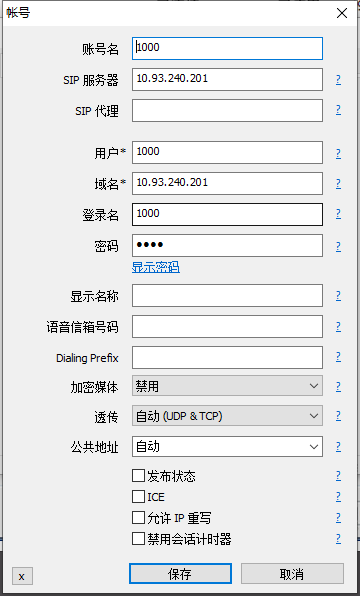
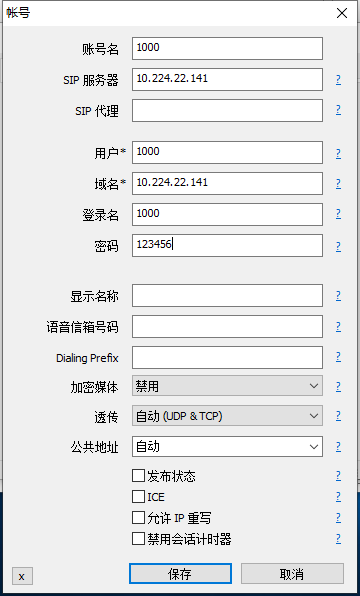
docs: update freeswitch/readme.md

diff --git a/freeswitch/readme.md b/freeswitch/readme.md
@@ -50,6 +50,46 @@ sudo service network restart
 ip addr # 可以看到ens33中的ip地址
 ```
 
+4. 呼叫挂断都很慢
+freeswitch没有修改用户默认密码的话会强制10s延迟，所以修改用户默认密码就好了
+```
+# 查找配置文件位置
+find / -name vars.xml
+```
+我的vars.xml在这个位置/etc/freeswitch/vars.xml
+
+在FreeSwitch系统中，所有用户的密码默认为 1234，该设置在 /etc/freeswitch/vars.xml 中，如下所示：
+```
+<X-PRE-PROCESS cmd=”set” data=”default_password=1234″/>
+```
+修改为
+```
+<X-PRE-PROCESS cmd=”set” data=”default_password=123456″/>
+```
+
+用户使用密码123456注册上就OK啦
+
+5. freeswitch常用命令
+```
+# 查看帮助
+freeswitch -help
+
+# 启动freeswitch
+freeswitch
+
+# 关闭freeswitch
+shutdown
+
+# 后台启动
+freeswitch -nc
+
+# 关闭后台freeswitch
+freeswitch -stop
+
+# 查看freeswitch是否正常启动
+netstat -anp | grep freeswitch
+```
+
 # 客户端测试
 FreeSWITCH使用make install安装完成后，默认就配置了1000~1019共20个账户，不用做任何其它配置，就可以开始我们的基本通话测试了，非常人性化。
 
